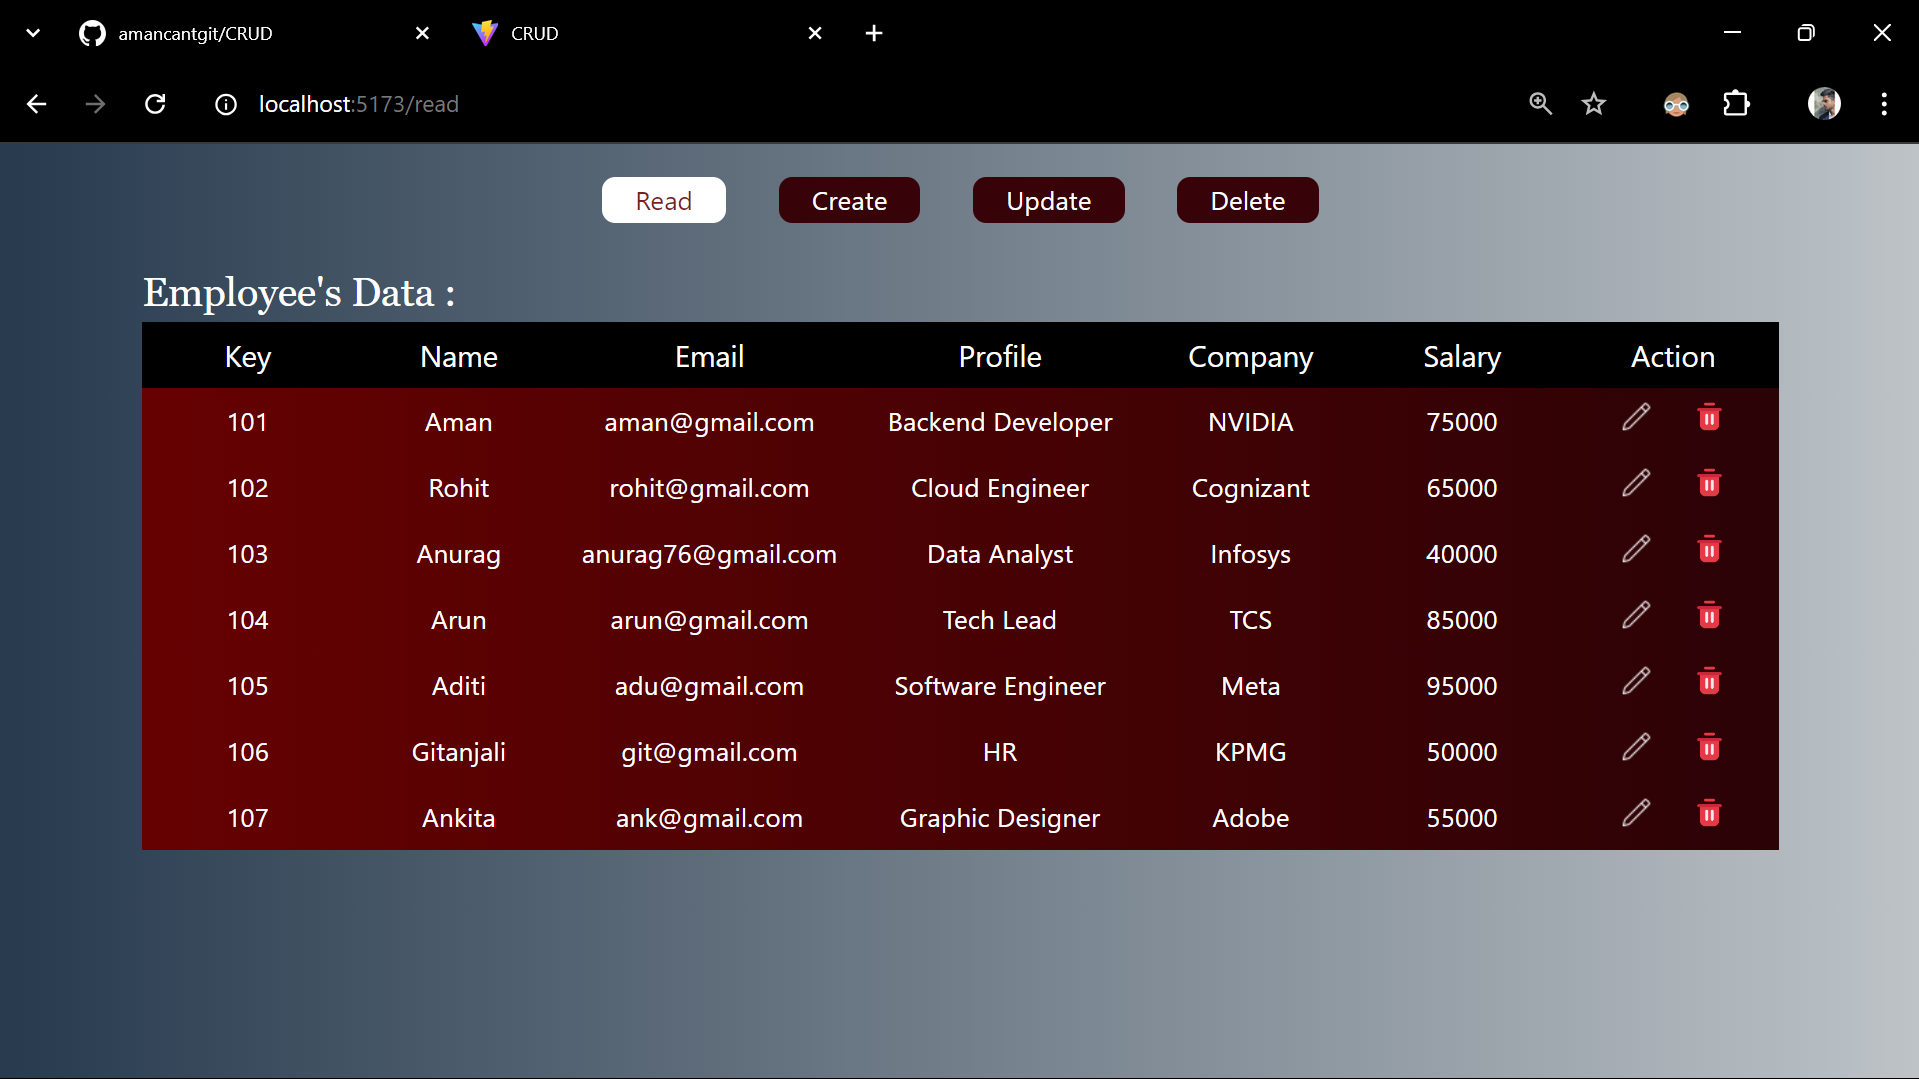
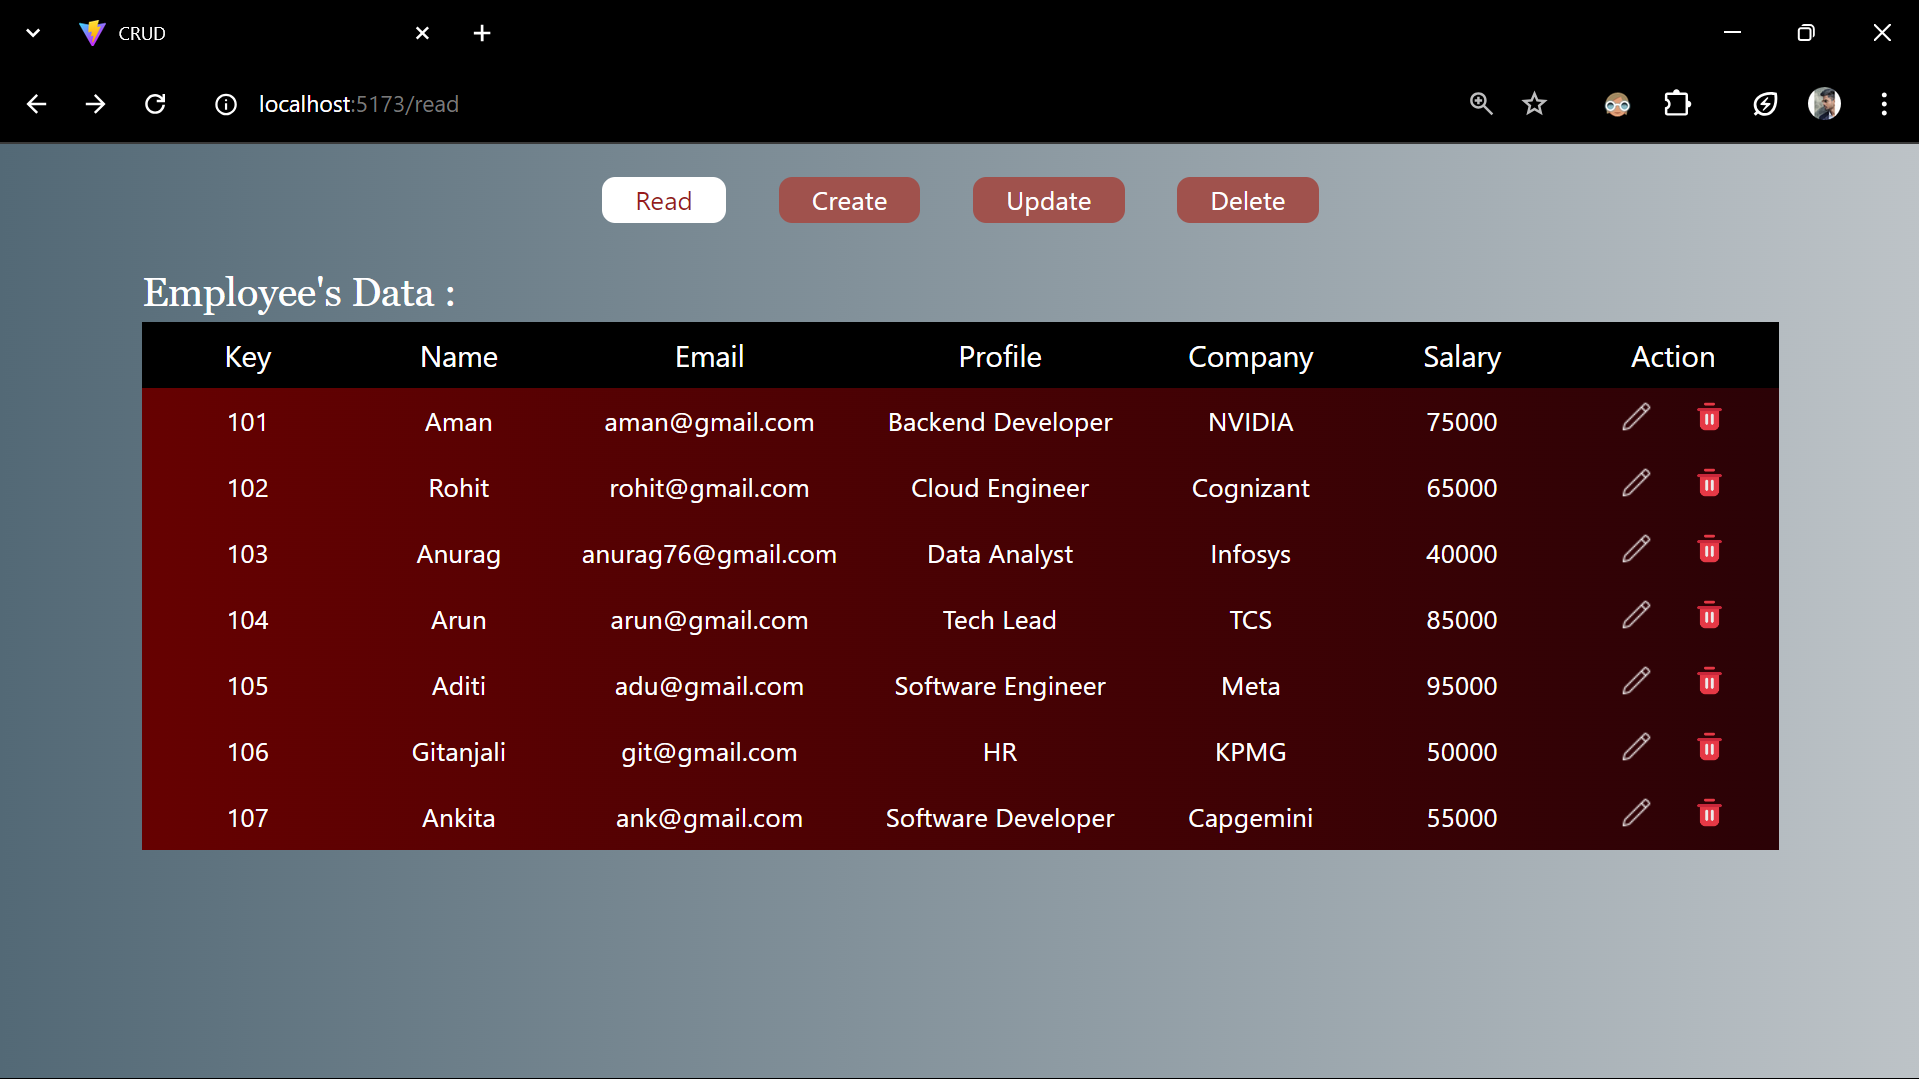
first commit

diff --git a/clientside/src/Components/Home.jsx b/clientside/src/Components/Home.jsx
@@ -4,7 +4,7 @@ import { Link, Outlet, useLocation } from 'react-router-dom';
 const Home = () => {
   const location = useLocation();
 
-  const baseStyles = 'mx-4 px-5 py-0.5 rounded-lg bg-[#A0524D] hover:bg-[#73211E] hover:text-white transition duration-500 ease-in-out';
+  const baseStyles = 'mx-4 px-5 py-0.5 rounded-lg bg-[#A65C4F] hover:bg-[#73211E] hover:text-white transition duration-500 ease-in-out';
   const activeStyles = 'bg-white text-red-800';
 
   const getLinkStyle = (path) => {
